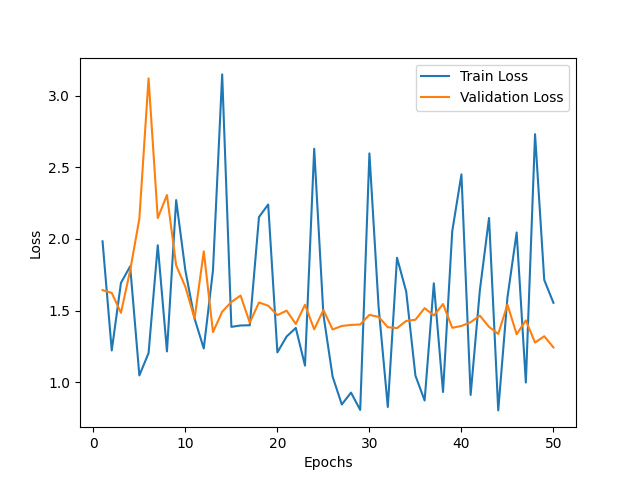
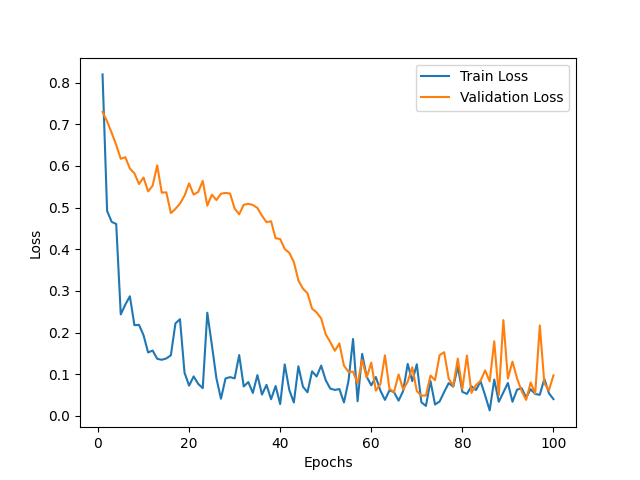
Add test data folder and slight change to main file

diff --git a/src/main.py b/src/main.py
@@ -11,7 +11,7 @@ from models import *
 # Constants
 RANDOM_SEED = 123
 BATCH_SIZE = 32
-NUM_EPOCHS = 50
+NUM_EPOCHS = 100
 LEARNING_RATE = 0.0001
 STEP_SIZE = 10
 GAMMA = 0.5
@@ -19,7 +19,7 @@ DEVICE = torch.device('cuda:0' if torch.cuda.is_available() else 'cpu')
 NUM_PRINT = 100
 
 # Load and preprocess the data
-data_dir = r"data/train/Task 1"
+data_dir = r"test_data/Task 1"
 
 # Define transformation for preprocessing
 preprocess = transforms.Compose([
@@ -68,10 +68,11 @@ train_loader = DataLoader(CustomDataset(train_dataset), batch_size=BATCH_SIZE, s
 valid_loader = DataLoader(CustomDataset(val_dataset), batch_size=BATCH_SIZE, num_workers=0)
 
 # Initialize model, criterion, optimizer, and scheduler
-model = resnet50(pretrained=False, num_classes=5)
+model = resnet18(pretrained=False, num_classes=2)
 model = model.to(DEVICE)
 criterion = nn.CrossEntropyLoss()
-optimizer = optim.SGD(model.parameters(), lr=LEARNING_RATE, momentum=0.8, weight_decay=0.001)
+# Adam optimizer
+optimizer = optim.Adam(model.parameters(), lr=LEARNING_RATE)
 scheduler = optim.lr_scheduler.StepLR(optimizer, step_size=STEP_SIZE, gamma=GAMMA)
 
 # Lists to store training and validation loss history

diff --git a/src/models.py b/src/models.py
@@ -4,6 +4,7 @@
 
 import torch
 from torchvision.models import resnet50
+from torchvision.models import resnet18
 
 # resnet50
 class Bottleneck(torch.nn.Module):
